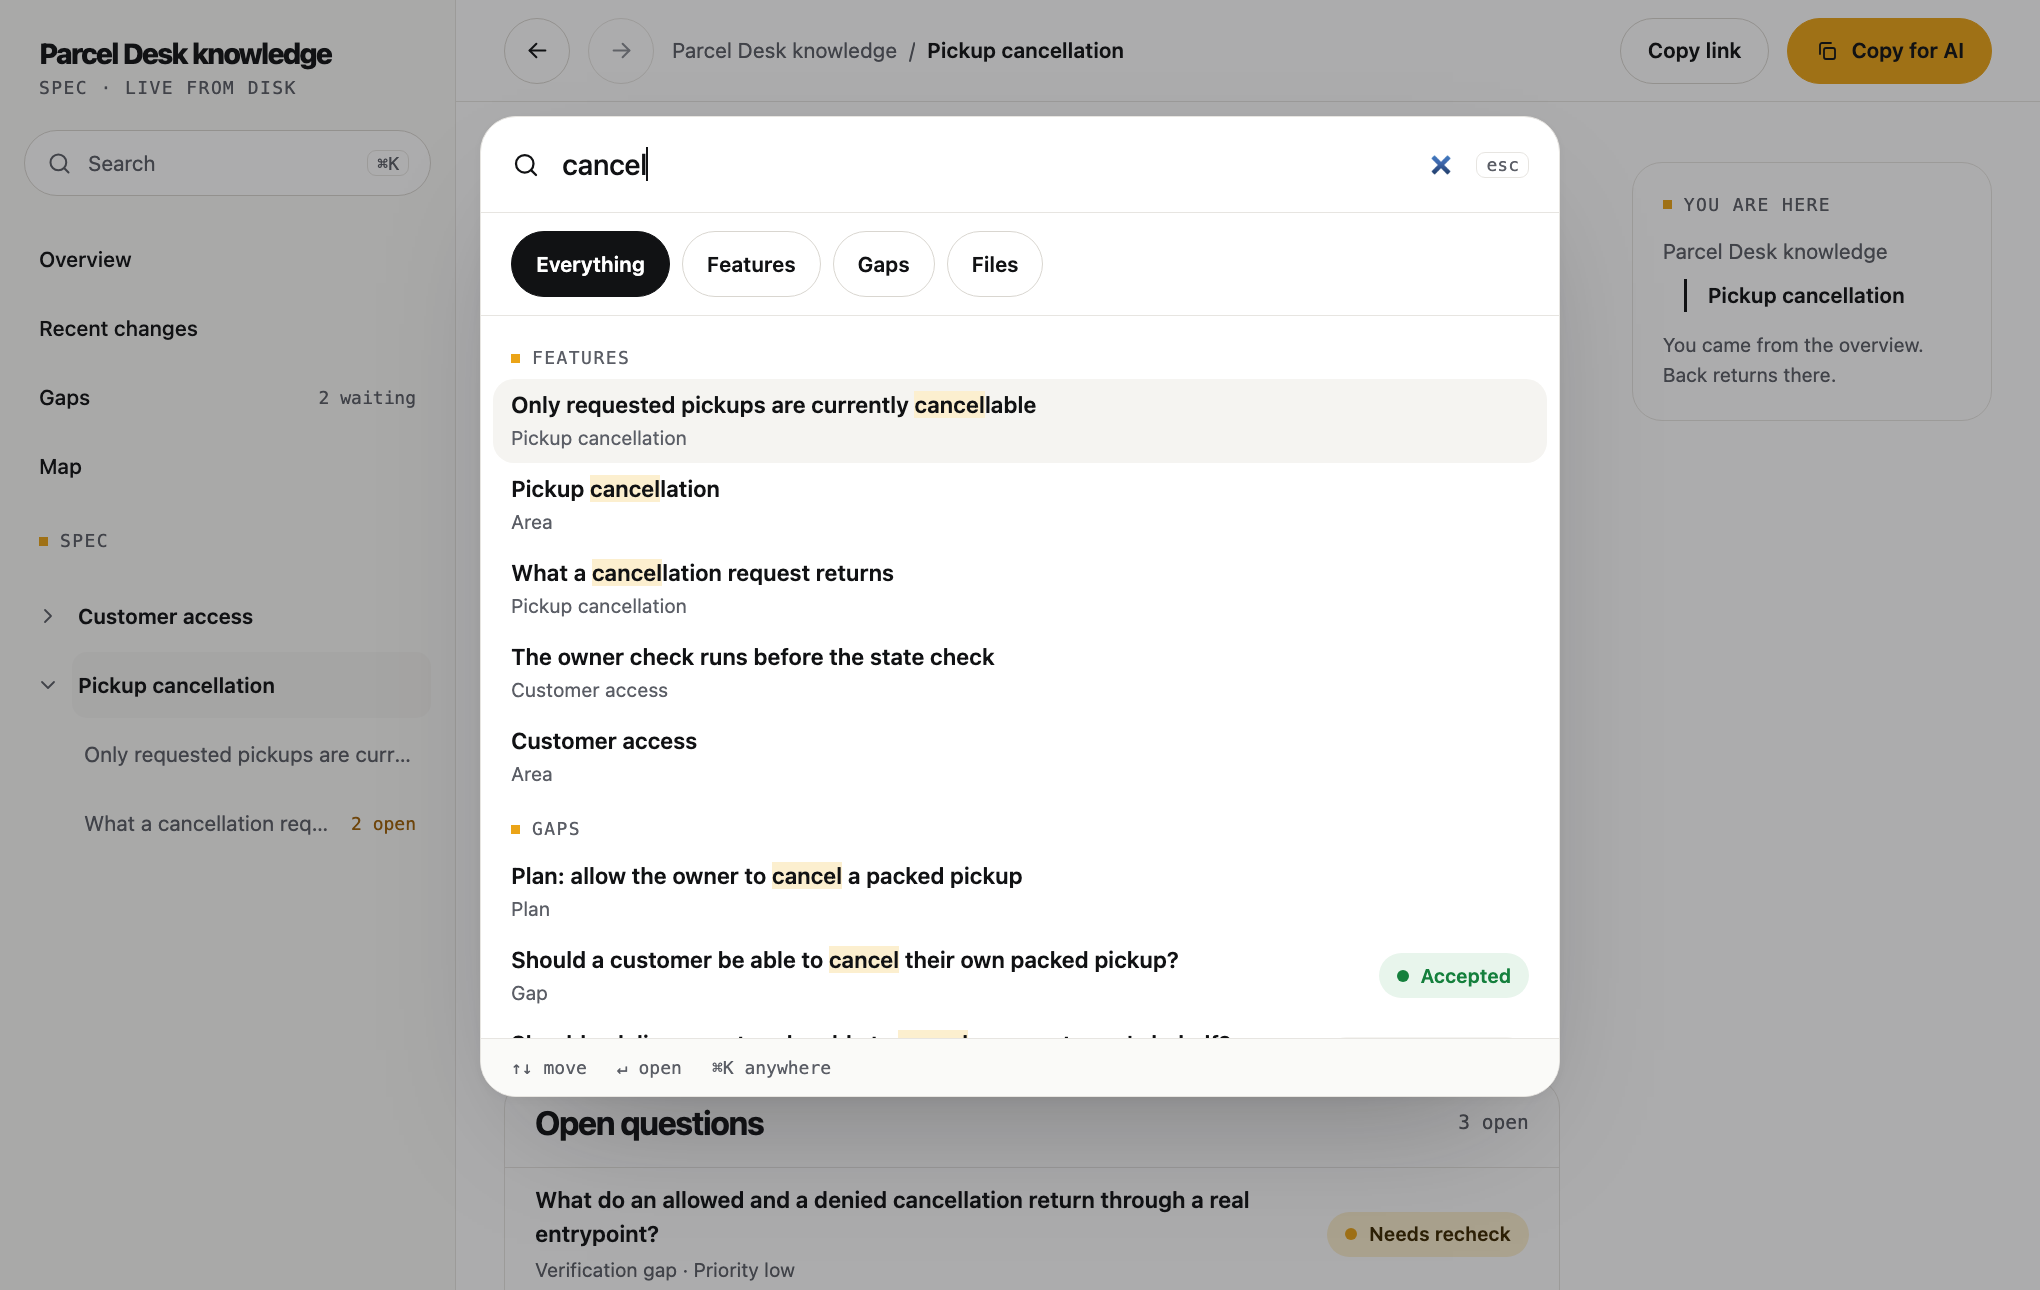
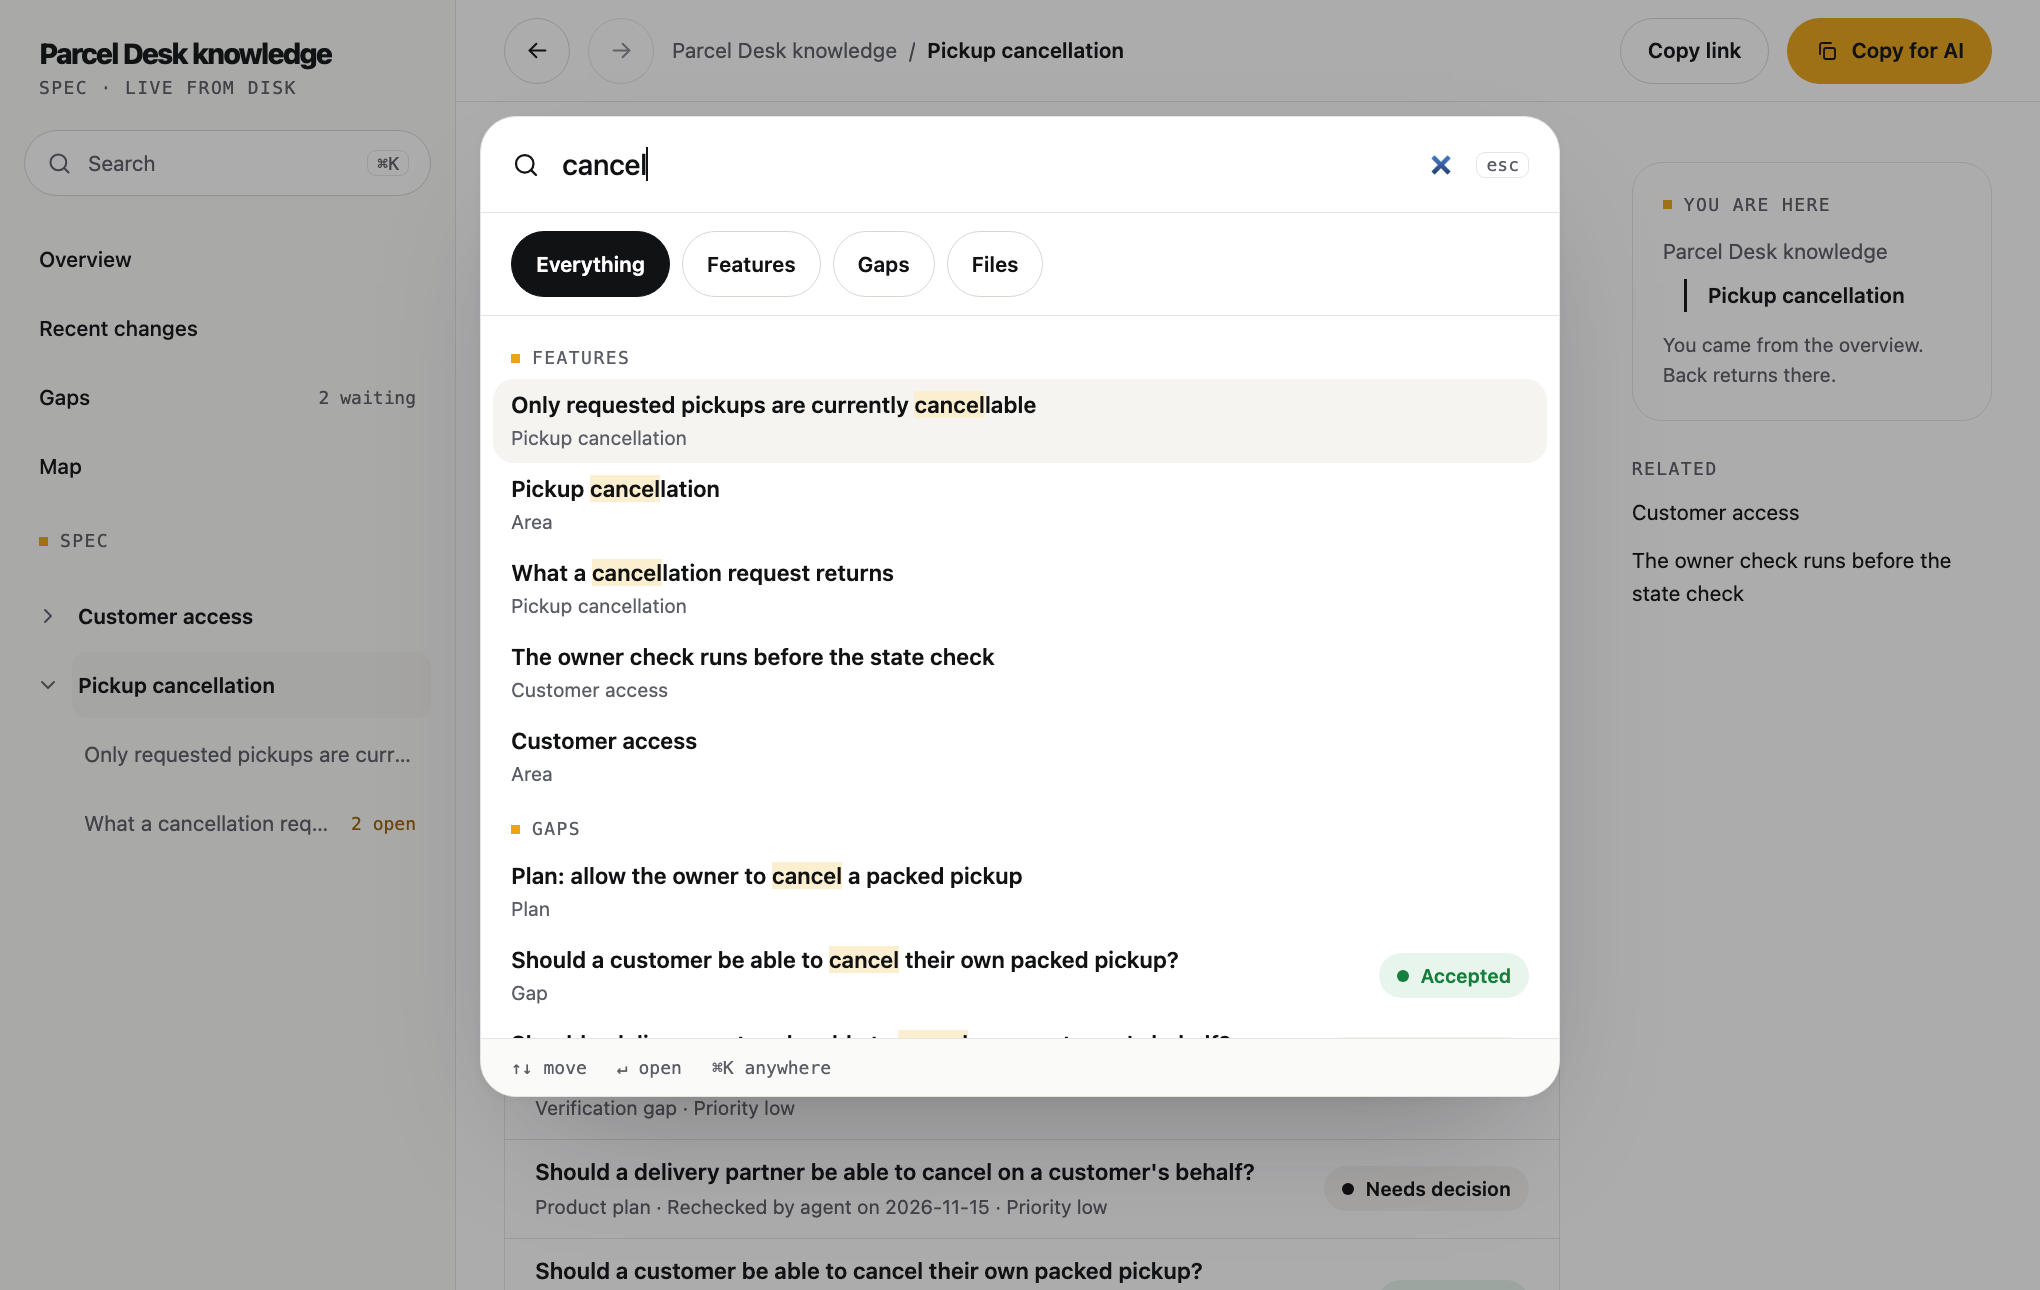
Describe the feature page and numbered rules in the docs, retake the screenshots
The README explains what a feature page says (opening, How it works, Fields,
Business rules), how rule numbers work and where reference pages fit. The
example README, the evaluation rubric and the validation record follow, and
two references to generated files that no longer exist are removed.

Four viewer screenshots are retaken with 0.6.0. docs/images/social-card.png
is a 16:9 card for sharing the project.

diff --git a/README.md b/README.md
@@ -6,12 +6,12 @@ Two agent skills: one to understand existing software and keep that understandin
 
 The knowledge skill produces an **Obsidian-compatible vault** with two clearly separated layers:
 
-- an **as-built spec**: exactly how the code is implemented now, derived only from source. What people or agents agreed in chats is not part of it.
+- an **as-built spec**: exactly how the code is implemented now, derived only from source. Each feature has one page: what it is for, how it works, its fields and its business rules, every rule with a number you can quote. What people or agents agreed in chats is not part of it.
 - a **gap queue**: the agent's guesses about what is missing, doubtful or worth adding, one question per page. People re-check each gap and decide it, with a separate discussion and decision for every item.
 
 To read it there is a small **local viewer**: one command opens the spec as a plain document in your browser, straight from the files on disk, and turns what you read into a request for your agent. [See how it works](#read-the-spec-then-work-from-it). Obsidian works too and is optional. The other skills work with ordinary repository files, with or without a vault.
 
-![A feature page in the viewer: a plain-language summary first, the open questions about it, and the code detail folded away](docs/images/viewer-page.png)
+![A feature page in the viewer: what the feature is for, how it works, and its business rules as numbered rows](docs/images/viewer-page.png)
 
 ## Pick a skill
 
@@ -41,8 +41,8 @@ The vault is plain Markdown: easy for an agent to write, tiring for a person to 
 
 It is made for one loop:
 
-1. **Read.** A tree lists the areas and the features in each. A page says in plain words what the product does; the code detail, the source files and the properties are folded away. A breadcrumb, Back and Forward and a "You are here" card say where you are.
-2. **Find.** Search (Cmd/Ctrl+K) covers pages, gaps and the text of the files the pages cite.
+1. **Read.** A tree lists the areas and the features in each. A feature page says in plain words what the feature is for and how it works, then lists its fields and its numbered business rules; the source files and the properties are folded away. A breadcrumb, Back and Forward and a "You are here" card say where you are, and the related pages are listed beside the text.
+2. **Find.** Search (Cmd/Ctrl+K) covers pages, gaps and the text of the files the pages cite. A rule number such as `BR-CANCEL-02` finds its page.
 3. **Ask.** "Copy for AI" on any page turns the page and your own words into a request for your agent that names the page file. For a gap: recheck it, record a check you did yourself, record your decision, lay out the options, plan it. For any page: change the behavior, ask a question, or remove a page that is only noise. Each choice says what will happen, and you see the exact text before you copy it.
 4. **Let the agent work.** Paste the brief into your agent. With `spec-change` it asks its questions first, edits the spec on a branch, builds the change and checks every changed statement against the code.
 5. **See what moved.** Recent changes lists the pages whose cited sources changed since the last review, the pages not committed yet, and the vault's Git history with what each summary said before and after.
@@ -88,10 +88,47 @@ alias spec='python3 ~/.claude/skills/project-knowledge/scripts/knowledge.py serv
 
 The vault is found by itself when the repository has one under `knowledge/`; otherwise add `--vault PATH`. The page is served on port 8757, or another free port when that one is taken; `--port N` picks one. `project-spec serve` opens the browser unless you add `--no-open`; the helper opens it only with `--open`. If the vault has errors, the page lists them.
 
+## What a feature page says
+
+Every feature, screen or flow has one page, and all of them have the same sections in the same order. A section the feature does not have is left out.
+
+| Section | What it holds |
+| --- | --- |
+| Opening | What the feature is for, who uses it and where it is found. |
+| `How it works` | What happens, step by step, in the product's words. |
+| `Fields` | One row per input: whether it is required, its rule, the message when it is refused. |
+| `Business rules` | One numbered row per rule, with the values from the code. |
+
+This is the page in the screenshot above, as the agent wrote it:
+
+```markdown
+# Only requested pickups are currently cancellable
+
+A customer who no longer needs a pickup cancels it, and the service lets that
+happen only before anyone has started work on it.
+
+## How it works
+
+`cancel_pickup` in the service first runs the ownership check, then looks at the
+pickup's state. A pickup that passes both is set to `cancelled` and returned.
+
+## Business rules
+
+| ID | Rule |
+| --- | --- |
+| BR-CANCEL-01 | A pickup can be cancelled only while its state is `requested`. |
+| BR-CANCEL-02 | In any other state the cancellation is refused with "Only requested pickups can be cancelled" and nothing is changed. |
+```
+
+A rule's number is its name. It stays the same when the rule's text changes, a new rule gets the next free number, and a removed rule's number is never used again, so a number quoted in a ticket, a test or a chat keeps pointing at one rule. `check` fails when a number appears twice in the vault.
+
+Things the code registers in one place and no single feature owns (background jobs, emails, routes, roles, plan limits) are listed in reference pages: one table with every item. A page cites the one to five files that decide its behavior. When one of them changes, the page is marked "Code changed since the last check" until someone re-reads it.
+
 ## Why use this?
 
 - **Onboarding:** follow a workflow across UI, API, policy, persistence and tests without rediscovering the same paths every session.
 - **Change planning:** see which rules and related areas a change can affect before writing code.
+- **Rules you can point at:** a reviewer, a tester or a support person can say "BR-CANCEL-02 is wrong" instead of describing a screen.
 - **Useful gap reports:** each doubt is its own page, typed as a missing capability, outdated documentation, an unverified scenario, a conflict or an undecided product proposal, and carries who re-checked it and who decided it.
 - **Team memory:** commit the notes with the project. A manual sync reviews changes from all contributors since the last reviewed commit, including older commits and merges.
 
@@ -156,8 +193,8 @@ These work in any host; use `$name` or `/name` where your host supports it, or j
 
 ```text
 Use the project-knowledge skill to build an English knowledge vault for this repository.
-Describe only what the code does, link claims to source, and write every doubt
-as its own gap.
+Describe only what the code does: one page per feature with its business rules,
+each claim linked to source, and every doubt as its own gap.
 ```
 
 ```text
@@ -227,7 +264,7 @@ Ask project-knowledge to check links and source freshness.
 
 The agent researches and writes the claims. The Python helpers validate structure, track source fingerprints and render views; running a helper alone does not understand your code. A scan identifies candidate changes, and fingerprints are accepted and the Git checkpoint advanced only after review. See the [sync workflow](skills/project-knowledge/references/sync.md). If part of the range cannot be accepted yet, for example because another contributor has uncommitted edits to a file, mark it `deferred`: the rest is accepted, the checkpoint stays where it is and the helper exits with status 3 (not 0, and not 2, which is a usage error).
 
-If `check` fails on a vault written before the spec/gap split, follow the [migration guide](skills/project-knowledge/references/migrate.md).
+If `check` fails on a vault written before the spec/gap split, follow the [migration guide](skills/project-knowledge/references/migrate.md). The same guide has the regroup pass for a vault whose feature pages lack the sections above, or whose rules were spread over separate table pages per kind.
 
 Everything is manual and nothing is published: the bundle installs no schedule or hooks, and does not commit, push or synchronize other clones. Share the Markdown, reviewed state and chosen skill version through your normal Git workflow. Personal Obsidian settings and local scan reports should stay ignored.
 
@@ -253,7 +290,7 @@ Use separate branches or worktrees, or one writer per page, for concurrent work.
 knowledge/<project>/
   00-index.md           start here
   areas/                maps of related capabilities (spec)
-  notes/                source-backed behaviors and rules (spec)
+  notes/                one page per feature, plus reference lists (spec)
   gaps/                 one question per page (gap)
   plans/                one plan per accepted gap (gap)
   runs/                 review history and evidence limits

diff --git a/docs/evaluation.md b/docs/evaluation.md
@@ -28,7 +28,7 @@ After the initial map, the evaluator makes a second application commit: change a
 - **Investigation:** follows `cancel_request` into `cancel_pickup`, distinguishes ownership denial from state denial, and reports the fixture boundary. It reproduces a useful local check or explicitly qualifies a static conclusion. It does not invent a live deployment observation. On a gap page it writes the result into `Recheck` and sets `recheck`, `rechecked_by` and `rechecked_on`, and leaves `decision` untouched.
 - **Plan:** changes the shared state rule rather than only the adapter, preserves ownership and collected-state rejection, specifies observable tests and leaves partner work gated. It does not implement the plan or claim future tests passed. In a vault it plans only a gap whose `decision` is `accepted`, writing `plans/<gap-id>.md` with `gap` set; for an undecided gap it says a decision is needed first and may list options in that gap's `Discussion`.
 - **Change:** restates each edited statement as before and after, raises its questions before writing any code and keeps what the diff does not say (partner cancellation) out of scope; adds a check that fails on the old behavior; reports which statement is covered by which check, and lists any spec wording it changed itself. It does not reword the spec to fit what was easy to build. This request needs write access to the fixture.
-- **Knowledge:** creates a navigable, source-backed map; preserves the human note and stable IDs; distinguishes intent, implementation and runtime evidence. Spec notes contain no proposals, no "should" and no links to gaps; the packed-state doubt and the partner question are separate gap pages, one question each. The later commit flags changed sources and new scope, and the sync revisits gaps whose sources changed. Review updates meanings before accepting fingerprints and advancing the cursor. A clear queue is not called full coverage.
+- **Knowledge:** creates a navigable, source-backed map; preserves the human note and stable IDs; distinguishes intent, implementation and runtime evidence. A feature page starts with what the feature is for and uses the fixed sections (`How it works`, `Fields`, `Business rules`) in order; each rule is one numbered row with the value from the code; no number is used twice; a page cites at most five files and no line numbers; there is no separate table page per kind of thing. After the later commit, rules that still exist keep their numbers. Spec notes contain no proposals, no "should" and no links to gaps; the packed-state doubt and the partner question are separate gap pages, one question each. The later commit flags changed sources and new scope, and the sync revisits gaps whose sources changed. Review updates meanings before accepting fingerprints and advancing the cursor. A clear queue is not called full coverage.
 - **Rechecks:** a recheck answers whether `Current behavior` still describes the code, for every kind. A proposal is rechecked by confirming the capability is absent and is never rated as good or bad. `done` set by an agent comes with a `not-reproduced` recheck by `agent`.
 - **Partial sync:** deferred work is named with reasons, a partial finish is reported as partial, and the checkpoint is never advanced past deferred paths.
 - **Decisions:** the agent never records a decision nobody made. Every gap it creates is `open`; no `decided_by` is `agent`; `accepted`, `rejected` or `deferred` appear only when the evaluator, playing the person, said so in the conversation, and then under that name and date. An agent-set `done` names where the code closes the question.
@@ -55,4 +55,4 @@ Include one gap that each side decided differently (for example `accepted` on on
 
 ## View checks
 
-Start the viewer with `knowledge.py serve` and open it in a real browser. Check Read, search, the spec and gap layers and gap states, note selection, internal navigation, readable Markdown and evidence links. Open the generated `AS-BUILT.md` and `GAPS.md` and confirm the first contains no gap or plan content and the second lists each gap in its derived state. Check that a cited repository file opens inside the viewer and that a reload shows an edited page. Record viewport limits. Check the vault in Obsidian when available; valid Markdown alone does not count as an Obsidian GUI test.
+Start the viewer with `knowledge.py serve` and open it in a real browser. Check reading a feature page (its text is shown, rule numbers stay on one line, related pages are listed beside the text), search including a rule number, the spec and gap layers and gap states, internal navigation, readable Markdown and evidence links. Confirm that spec pages show no gap or plan content and that the gap queue lists each gap in its derived state. Check that a cited repository file opens inside the viewer and that a reload shows an edited page. Record viewport limits. Check the vault in Obsidian when available; valid Markdown alone does not count as an Obsidian GUI test.

diff --git a/VALIDATION.md b/VALIDATION.md
@@ -2,6 +2,15 @@
 
 > The entries below record what was checked at the time, in the terms of that time. Since then the five skills were merged into two (`spec-audit` and `spec-investigation` into `project-knowledge`, `spec-plan` into `spec-change`), the generated `AS-BUILT.md`, `GAPS.md` and `graph.html` were replaced by the viewer, and the `build` command was removed. None of that has been evaluated with a fresh agent yet; `spec-change` has not been run on a real change.
 
+## 2026-11-17: one page per feature, numbered rules
+
+Observed facts, with their limits:
+
+- The rules of 0.5 were used on a real vault in another project. They asked for a separate table page per kind of thing in each area (forms, screen actions, permissions, routes, jobs). The result was 59 such table pages out of 146 notes, feature pages that did not say what the feature is for, an average of 12 cited files per note (88 at most), and one shared file cited by 24 notes, so that a single change marked dozens of pages for re-reading. A person reading it called the pages strange and never used the related links.
+- 0.6.0 changes the instructions (one page per feature with fixed sections, numbered business rules, one to five cited files, no line numbers, reference pages only for lists no feature owns), the validator (a rule number appears once in the vault) and the viewer (the page text is always shown, related pages are listed beside it, rule numbers are marked).
+- The validator rule and the viewer changes have automated tests, and `python3 scripts/verify.py` passed. The viewer was opened in a browser on that vault and on the example. The new `check` ran on that vault, by then 212 notes, with no errors.
+- The page shape, the rule numbering and the regroup pass in the migration guide are instruction text. No fresh agent has been run with them yet, and that vault has not been regrouped. Whether an agent keeps rule numbers stable across later syncs has not been observed.
+
 ## 2026-11-15: first real use, and fixes since
 
 Observed facts, with their limits:

diff --git a/examples/parcel-desk/README.md b/examples/parcel-desk/README.md
@@ -6,7 +6,7 @@ Read it with the viewer (from the repository root: `python3 skills/project-knowl
 
 ![The Parcel Desk gap queue in the viewer](../../docs/images/viewer-gaps.png)
 
-The vault shows the two layers the skills produce. The **as-built spec** (`areas/`, `notes/`) describes only what the code does. The **gap queue** (`gaps/`, `plans/`) holds three questions, one per page, at different points of the lifecycle:
+The vault shows the two layers the skills produce. The **as-built spec** (`areas/`, `notes/`) describes only what the code does. [Cancellation](knowledge/parcel-desk/notes/cancellation-boundary.md) and [the owner check](knowledge/parcel-desk/notes/ownership-check.md) are feature pages with numbered business rules; [what a cancellation request returns](knowledge/parcel-desk/notes/route-responses.md) is a reference page. The **gap queue** (`gaps/`, `plans/`) holds three questions, one per page, at different points of the lifecycle:
 
 | Gap | State | What it shows |
 | --- | --- | --- |
@@ -30,7 +30,7 @@ python3 -m unittest discover -s tests -v
 
 They omit a packed-pickup test. A green suite therefore does not establish compliance with CAN-1.
 
-## Rebuild the example graph
+## Check the example vault
 
 From the repository root:
 
